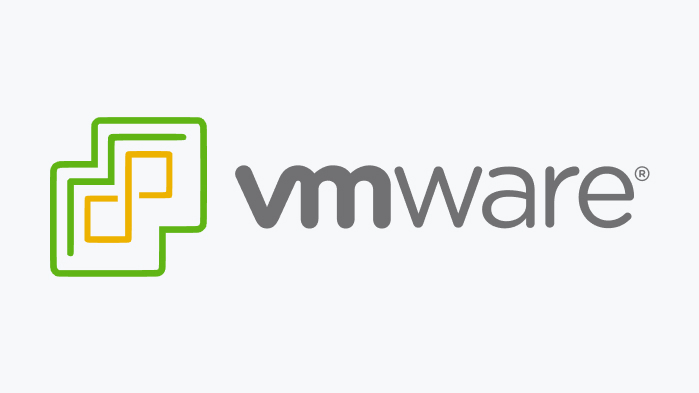
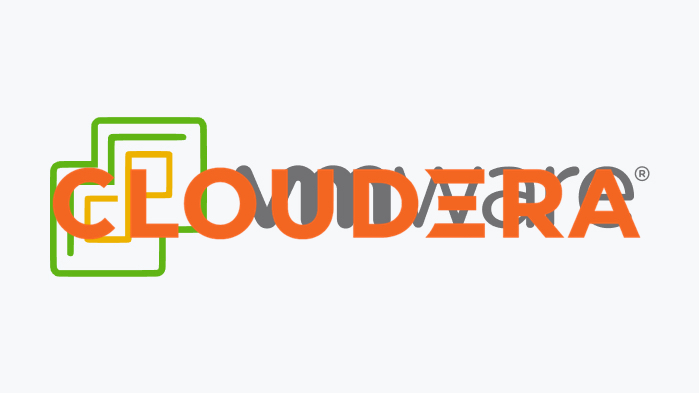
row 1

Changed region(s): [[0.0601, 0.4275, 0.9313, 0.6107]]

diff --git a/stackpacks/integrations/README.md b/stackpacks/integrations/README.md
@@ -40,7 +40,7 @@ description: StackState Self-hosted v5.1.x
         <tr>
             <td><strong>OpenShift</strong></td>
             <td><a href="/stackpacks/integrations/openshift.md">openshift</a></td>
-            <td><a href="/.gitbook/assets/gitbook-card-image_tomcat.jpg">gitbook-card-image_openshift.jpg</a></td>
+            <td><a href="/.gitbook/assets/gitbook-card-image_openshift.jpg">gitbook-card-image_openshift.jpg</a></td>
         </tr>
         <tr>
             <td><strong>OpenTelemetry</strong></td>
@@ -72,6 +72,33 @@ description: StackState Self-hosted v5.1.x
 
 
 ## Curated and Community integrations
+
+<table data-view="cards">
+    <thead>
+        <tr>
+            <th></th>
+            <th data-hidden data-card-target data-type="content-ref"></th>
+            <th data-hidden data-card-cover data-type="files"></th>
+        </tr>
+    </thead>
+    <tbody>
+        <tr>
+            <td><strong>Apache Tomcat</strong></td>
+            <td><a href="/stackpacks/integrations/apache-tomcat.md">apache tomcat</a></td>
+            <td><a href="/.gitbook/assets/gitbook-card-image_tomcat.jpg">gitbook-card-image_tomcat.jpg</a></td>
+        </tr>
+        <tr>
+            <td><strong>Azure</strong></td>
+            <td><a href="/stackpacks/integrations/azure.md">azure</a></td>
+            <td><a href="/.gitbook/assets/gitbook-card-image_azure.jpg">gitbook-card-image_azure.jpg</a></td>
+        </tr>
+        <tr>
+            <td><strong>Cloudera</strong></td>
+            <td><a href="/stackpacks/integrations/cloudera.md">cloudera</a></td>
+            <td><a href="/.gitbook/assets/gitbook-card-image_cloudera.jpg">gitbook-card-image_cloudera.jpg</a></td>
+        </tr>
+    </tbody>
+</table>
 
 {% page-ref page="apache-tomcat.md" %}
 
